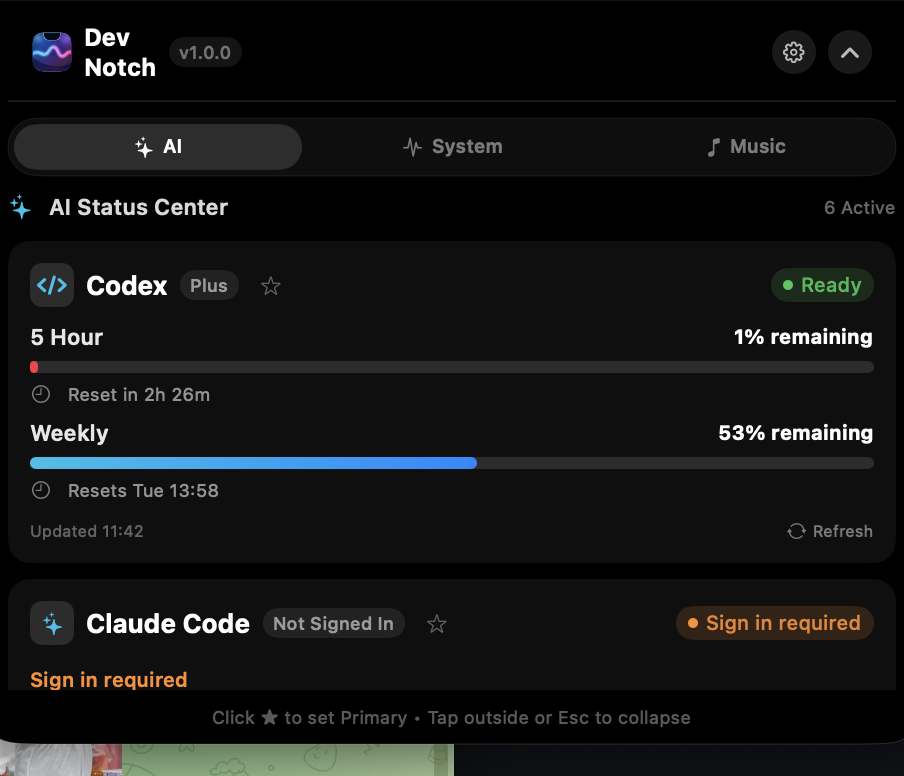
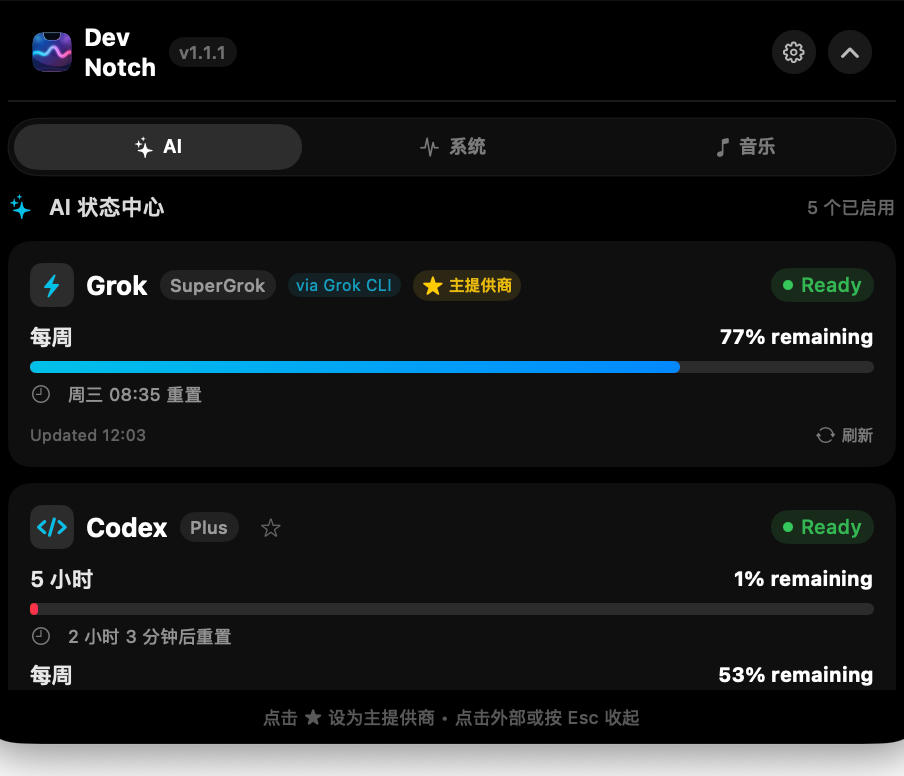
Replace v1.1.1 screenshots and add Settings shots.
Use the new compact / AI / Music / System captures, and add General and AI Providers settings screenshots to README and GitHub Release notes.

diff --git a/GITHUB_RELEASE_NOTES.md b/GITHUB_RELEASE_NOTES.md
@@ -14,6 +14,10 @@ In-app language: Follow System, English, or 简体中文. Applies immediately to
 
 ![展开 · System](https://github.com/halunhaku/dev-notch/releases/download/v1.1.1/system.png)
 
+![设置 · 通用](https://github.com/halunhaku/dev-notch/releases/download/v1.1.1/settings-general.png)
+
+![设置 · AI 提供商](https://github.com/halunhaku/dev-notch/releases/download/v1.1.1/settings-providers.png)
+
 ## 本版更新
 
 - **语言**：设置 → 通用 → 语言。跟随系统 / English / 简体中文，立刻生效。

diff --git a/README.md b/README.md
@@ -16,6 +16,12 @@
 
 ![展开 · System](docs/screenshots/system.png)
 
+设置 · 通用 / AI 提供商：
+
+![设置 · 通用](docs/screenshots/settings-general.png)
+
+![设置 · AI 提供商](docs/screenshots/settings-providers.png)
+
 
 ## 📌 当前开发阶段
 
